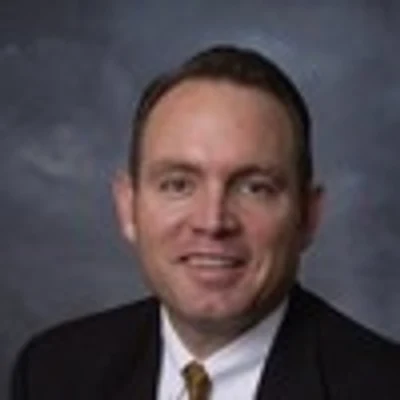
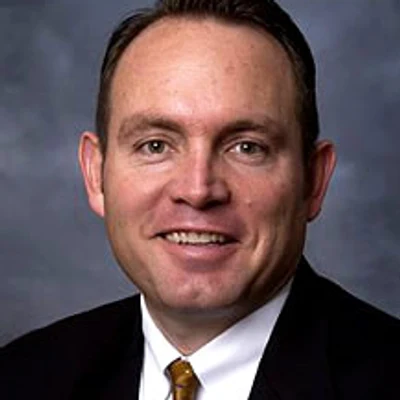
Add LinkedIn profiles for the leadership and steering committee

diff --git a/src/content/people/peter-salamon-phd.md b/src/content/people/peter-salamon-phd.md
@@ -4,6 +4,7 @@ title: "Joint Research Centre, Disaster Risk Management"
 organization: "European Commission"
 groups: ["Steering committee"]
 photo: /images/people/peter-salamon-phd.webp
+linkedin: https://www.linkedin.com/in/peter-salamon-88b786291/
 order: 6
 ---
 

diff --git a/src/content/people/dominique-berod-phd.md b/src/content/people/dominique-berod-phd.md
@@ -4,6 +4,7 @@ title: "Head, Earth System Monitoring Division"
 organization: "World Meteorological Organization"
 groups: ["Steering committee"]
 photo: /images/people/dominique-berod-phd.webp
+linkedin: https://www.linkedin.com/in/dom-berod-wmo/
 order: 1
 ---
 

diff --git a/src/content/people/angelica-gutierrez.md b/src/content/people/angelica-gutierrez.md
@@ -5,6 +5,7 @@ organization: "NOAA (Ret.)"
 country: "USA"
 groups: ["Project leaders", "Steering committee"]
 photo: /images/people/angelica-gutierrez.webp
+linkedin: https://www.linkedin.com/in/angelicagutierrezphd/
 order: 2
 ---
 

diff --git a/src/content/people/riley-hales-phd.md b/src/content/people/riley-hales-phd.md
@@ -5,6 +5,7 @@ organization: "Brigham Young University"
 country: "USA"
 groups: ["Project leaders", "Technical team"]
 photo: /images/people/riley-hales-phd.webp
+linkedin: https://www.linkedin.com/in/rileyhales/
 order: 3
 ---
 

diff --git a/src/content/people/reetwika-basu-phd.md b/src/content/people/reetwika-basu-phd.md
@@ -5,6 +5,7 @@ organization: "University of Alabama, Huntsville"
 country: "USA"
 groups: ["Project leaders"]
 photo: /images/people/reetwika-basu-phd.webp
+linkedin: https://www.linkedin.com/in/reetwikab/
 order: 4
 ---
 

diff --git a/src/content/people/jim-nelson.md b/src/content/people/jim-nelson.md
@@ -5,6 +5,7 @@ organization: "Brigham Young University"
 country: "USA"
 groups: ["Project leaders"]
 photo: /images/people/jim-nelson.webp
+linkedin: https://www.linkedin.com/in/jim-nelson-96a74b1/
 order: 1
 ---
 

diff --git a/src/content/people/michael-souffront-phd.md b/src/content/people/michael-souffront-phd.md
@@ -5,6 +5,7 @@ organization: "Aquaveo"
 country: "USA"
 groups: ["Steering committee"]
 photo: /images/people/michael-souffront-phd.webp
+linkedin: https://www.linkedin.com/in/michaelsouffront/
 order: 4
 ---
 

diff --git a/src/content/people/joe-flasher.md b/src/content/people/joe-flasher.md
@@ -5,6 +5,7 @@ organization: "Amazon Web Services"
 country: "USA"
 groups: ["Steering committee"]
 photo: /images/people/joe-flasher.webp
+linkedin: https://www.linkedin.com/in/joeflasher/
 order: 3
 ---
 

diff --git a/src/content/people/steve-kopp.md b/src/content/people/steve-kopp.md
@@ -5,6 +5,7 @@ organization: "Esri"
 country: "USA"
 groups: ["Steering committee"]
 photo: /images/people/steve-kopp.webp
+linkedin: https://www.linkedin.com/in/stevekoppgeo/
 order: 7
 ---
 
